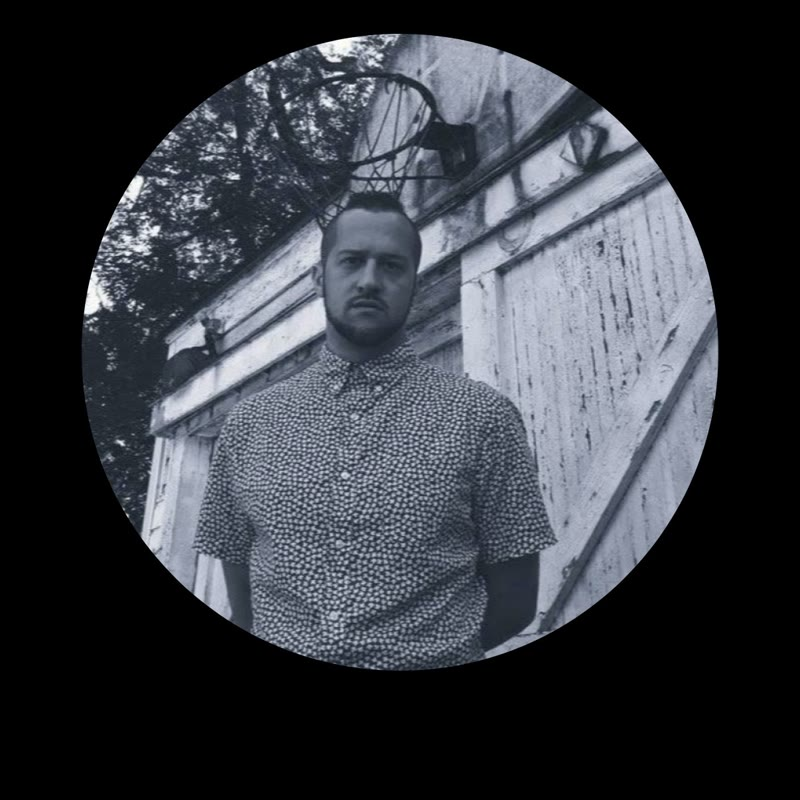
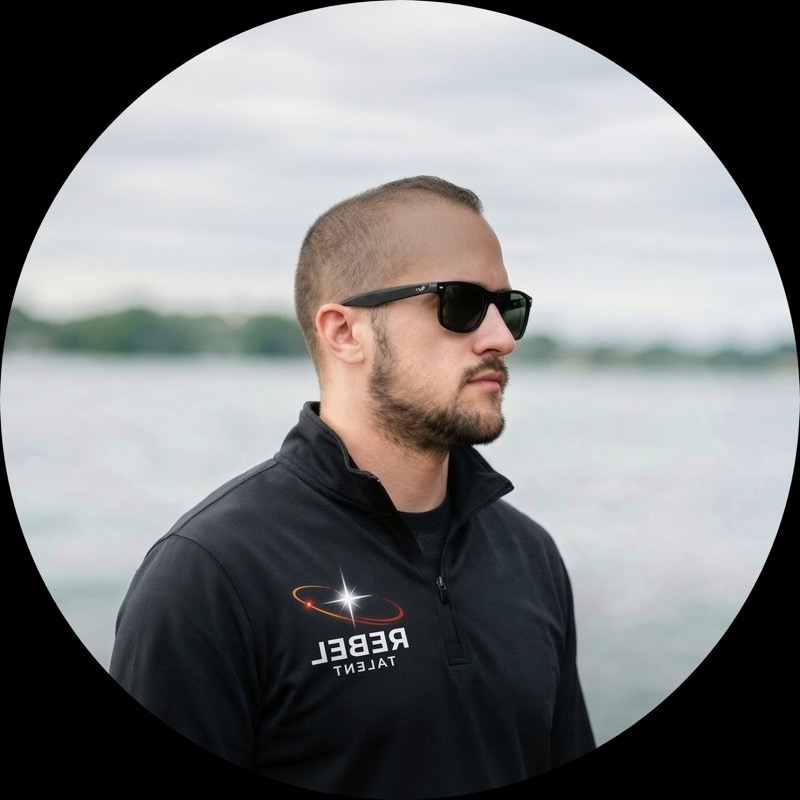
Advisors interest form + Chris headshot sync
Open slot links to Interested form that emails Richie via FormSubmit.
About team card uses chris-moscato.jpg; public Chris assets refreshed from commandchris.

diff --git a/client/src/pages/Advisors.tsx b/client/src/pages/Advisors.tsx
@@ -1,3 +1,4 @@
+import { useState, FormEvent } from "react";
 import { Link } from "wouter";
 import { ArrowRight } from "lucide-react";
 import PageLayout from "@/components/PageLayout";
@@ -25,6 +26,195 @@ const advisorsSchema = {
     "url": "https://www.linkedin.com/in/arin-frye/",
   },
 };
+
+
+const inputClass =
+  "w-full bg-zinc-900/50 border border-zinc-800 px-4 py-2.5 text-sm text-white placeholder:text-zinc-500 focus:outline-none focus:border-rebel-red/50 transition-colors";
+
+function Field({
+  label,
+  required,
+  hint,
+  children,
+}: {
+  label: string;
+  required?: boolean;
+  hint?: string;
+  children: React.ReactNode;
+}) {
+  return (
+    <label className="block">
+      <span className="block text-sm text-zinc-300 mb-1.5">
+        {label}
+        {required ? <span className="text-rebel-red"> *</span> : null}
+      </span>
+      {children}
+      {hint ? <span className="block mt-1.5 text-xs text-zinc-500">{hint}</span> : null}
+    </label>
+  );
+}
+
+function AdvisorInterestForm() {
+  const [name, setName] = useState("");
+  const [email, setEmail] = useState("");
+  const [linkedin, setLinkedin] = useState("");
+  const [role, setRole] = useState("");
+  const [why, setWhy] = useState("");
+  const [websiteUrl, setWebsiteUrl] = useState("");
+  const [status, setStatus] = useState<"idle" | "loading" | "success" | "error">("idle");
+  const [errorMsg, setErrorMsg] = useState("");
+
+  const handleSubmit = async (e: FormEvent) => {
+    e.preventDefault();
+    if (websiteUrl.trim()) return;
+    if (!name.trim() || !email.trim()) return;
+
+    setStatus("loading");
+    setErrorMsg("");
+    try {
+      const res = await fetch("https://formsubmit.co/ajax/richie@rebeltalentsystems.com", {
+        method: "POST",
+        headers: {
+          "Content-Type": "application/json",
+          Accept: "application/json",
+        },
+        body: JSON.stringify({
+          name: name.trim(),
+          email: email.trim(),
+          linkedin: linkedin.trim() || "(not provided)",
+          current_role: role.trim() || "(not provided)",
+          why: why.trim() || "(not provided)",
+          _subject: "Advisor interest - Rebel Talent Systems",
+          _template: "table",
+          _captcha: "false",
+          source: "rebeltalentsystems.com/advisors#advisor-interest",
+        }),
+      });
+      const data = (await res.json().catch(() => ({}))) as { success?: string; message?: string };
+      if (!res.ok) {
+        throw new Error(data.message || "Submit failed");
+      }
+      setStatus("success");
+      setName("");
+      setEmail("");
+      setLinkedin("");
+      setRole("");
+      setWhy("");
+    } catch (err) {
+      setStatus("error");
+      setErrorMsg(
+        err instanceof Error
+          ? err.message
+          : "Something went wrong. Email richie@rebeltalentsystems.com instead.",
+      );
+    }
+  };
+
+  if (status === "success") {
+    return (
+      <div
+        data-testid="advisor-interest-success"
+        className="border border-zinc-800 bg-zinc-950/50 p-6 sm:p-8"
+      >
+        <p className="font-mono text-rebel-red text-[11px] tracking-[0.22em] uppercase mb-3">Sent</p>
+        <h3 className="font-display text-2xl font-bold text-white tracking-tight mb-3">Got it.</h3>
+        <p className="text-zinc-300 text-sm sm:text-base leading-relaxed">
+          Your note is in Richie&rsquo;s inbox. He will reply if there is a fit.
+        </p>
+      </div>
+    );
+  }
+
+  return (
+    <form onSubmit={handleSubmit} className="space-y-5" data-testid="form-advisor-interest">
+      <div className="hidden" aria-hidden="true">
+        <label htmlFor="advisor_website_url">Leave this empty</label>
+        <input
+          id="advisor_website_url"
+          type="text"
+          tabIndex={-1}
+          autoComplete="off"
+          value={websiteUrl}
+          onChange={(e) => setWebsiteUrl(e.target.value)}
+        />
+      </div>
+
+      <div className="grid sm:grid-cols-2 gap-5">
+        <Field label="Your name" required>
+          <input
+            type="text"
+            value={name}
+            onChange={(e) => setName(e.target.value)}
+            required
+            autoComplete="name"
+            className={inputClass}
+            data-testid="input-advisor-name"
+          />
+        </Field>
+        <Field label="Email" required>
+          <input
+            type="email"
+            value={email}
+            onChange={(e) => setEmail(e.target.value)}
+            required
+            autoComplete="email"
+            className={inputClass}
+            data-testid="input-advisor-email"
+          />
+        </Field>
+      </div>
+
+      <div className="grid sm:grid-cols-2 gap-5">
+        <Field label="LinkedIn" hint="Profile URL if you have one">
+          <input
+            type="url"
+            value={linkedin}
+            onChange={(e) => setLinkedin(e.target.value)}
+            placeholder="https://www.linkedin.com/in/..."
+            className={inputClass}
+            data-testid="input-advisor-linkedin"
+          />
+        </Field>
+        <Field label="Current role" hint="Title and company">
+          <input
+            type="text"
+            value={role}
+            onChange={(e) => setRole(e.target.value)}
+            placeholder="VP Ops, Example Co"
+            className={inputClass}
+            data-testid="input-advisor-role"
+          />
+        </Field>
+      </div>
+
+      <Field label="Why advise Rebel?" hint="A few sentences is enough">
+        <textarea
+          value={why}
+          onChange={(e) => setWhy(e.target.value)}
+          rows={4}
+          className={`${inputClass} resize-y min-h-[6rem]`}
+          data-testid="input-advisor-why"
+        />
+      </Field>
+
+      {status === "error" ? (
+        <p className="text-red-400 text-sm" data-testid="advisor-interest-error">
+          {errorMsg || "Something went wrong. Try again or email richie@rebeltalentsystems.com."}
+        </p>
+      ) : null}
+
+      <button
+        type="submit"
+        disabled={status === "loading"}
+        data-testid="button-advisor-interest-submit"
+        className="inline-flex items-center justify-center gap-2 bg-rebel-red hover:bg-red-700 text-white font-semibold text-sm sm:text-base px-6 py-3.5 rounded-full transition-colors disabled:opacity-50"
+      >
+        {status === "loading" ? "Sending..." : "Send interest"}
+        <ArrowRight className="w-4 h-4 shrink-0" />
+      </button>
+    </form>
+  );
+}
 
 export default function Advisors() {
   return (
@@ -172,9 +362,16 @@ export default function Advisors() {
               <p className="font-mono text-zinc-500 text-[11px] tracking-[0.22em] uppercase mb-3">
                 Open
               </p>
-              <h3 className="font-display text-2xl font-bold text-zinc-300 tracking-tight">
+              <h3 className="font-display text-2xl font-bold text-zinc-300 tracking-tight mb-4">
                 More advisors joining.
               </h3>
+              <a
+                href="#advisor-interest"
+                data-testid="link-advisors-interested"
+                className="inline-flex items-center gap-2 text-sm font-semibold text-white hover:text-rebel-red transition-colors no-underline"
+              >
+                Interested? <ArrowRight className="w-4 h-4 shrink-0" />
+              </a>
             </aside>
           </div>
 
@@ -195,6 +392,34 @@ export default function Advisors() {
             </Link>
             .
           </p>
+        </div>
+      </section>
+
+
+      <section
+        id="advisor-interest"
+        data-testid="section-advisor-interest"
+        className="py-16 sm:py-24 border-t border-zinc-900 bg-zinc-950 scroll-mt-24"
+      >
+        <div className="max-w-3xl mx-auto px-5 sm:px-6 lg:px-12">
+          <p className="font-mono text-rebel-red text-[11px] tracking-[0.22em] uppercase mb-3">
+            Interested?
+          </p>
+          <h2 className="font-display text-3xl sm:text-4xl font-bold text-white tracking-tight mb-4">
+            Advise Rebel.
+          </h2>
+          <div className="space-y-4 text-zinc-300 text-sm sm:text-base leading-relaxed mb-10">
+            <p>
+              A Rebel strategic advisor is not a board seat and not a full-time hire. You lend judgment, introductions, and hard-won pattern recognition while we place people and build hiring systems for commercial and cleared teams.
+            </p>
+            <p>
+              Fit looks like operators and leaders who have scaled teams, won hard seats, or opened markets we care about. You stay in your day role. We reach out when your lens actually moves a search or a client conversation.
+            </p>
+            <p>
+              Fill this out and it emails Richie directly. No automated sequence. He reads it himself.
+            </p>
+          </div>
+          <AdvisorInterestForm />
         </div>
       </section>
 

diff --git a/client/src/pages/About.tsx b/client/src/pages/About.tsx
@@ -318,7 +318,7 @@ export default function About() {
             {[
               {
                 name: "Chris Moscato",
-                photo: "/team-chris.jpg",
+                photo: "/chris-moscato.jpg",
                 title: "Head of Client Acquisition",
                 blurb:
                   "The commercial lead startups actually want on the first call. Calm under pressure, direct on the phone, and still on the account after the paperwork.",
